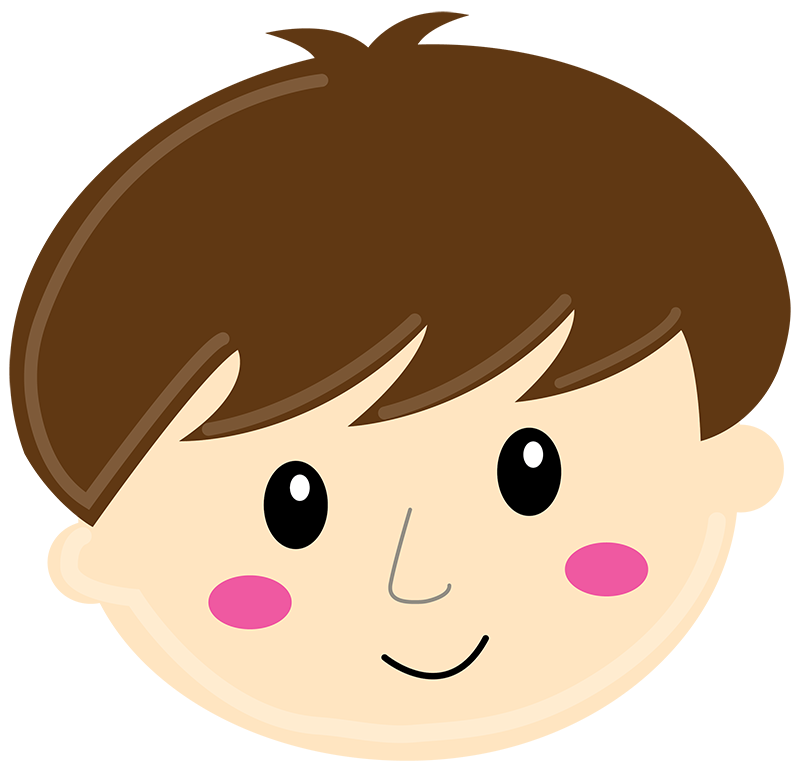
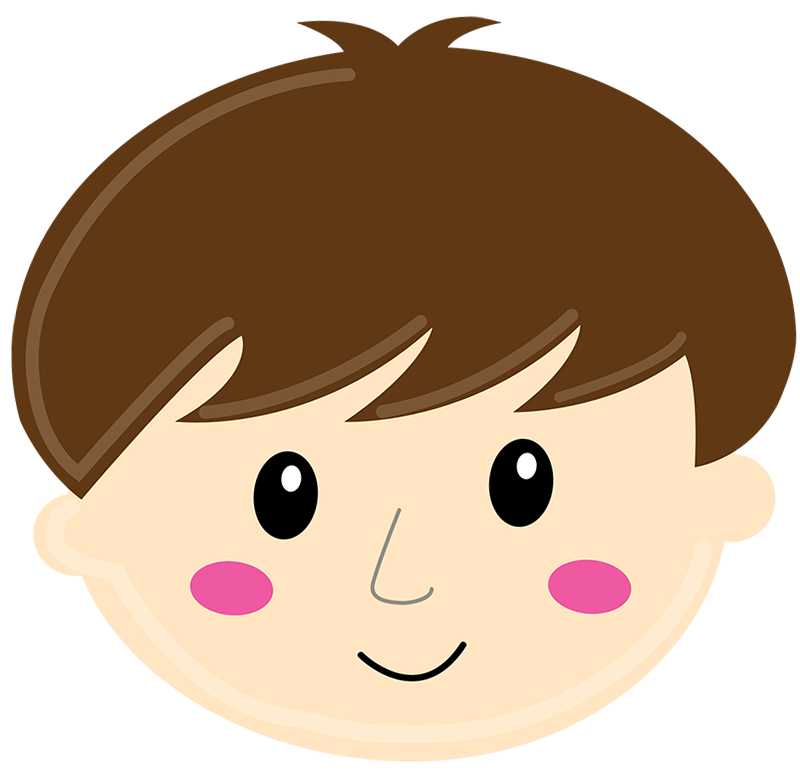
fixed assets

diff --git a/wear/style.css b/wear/style.css
@@ -29,11 +29,12 @@ main ul {
 
 
 #face {
-   
+   max-width: 480px;
+   margin: 25px 0 0 0;
 }
 
 #mask {
- 
+ max-width: 480px;
 }
 
 .slide-mask {
@@ -44,10 +45,10 @@ main ul {
 
 @keyframes slide-up {
     from {
-        transform: translateY(100%);
+        transform: translateY(90%);
     }
     to {
-        transform: translateY(-100%);
+        transform: translateY(-85%);
     }
 }
 
@@ -108,7 +109,6 @@ td {
     }
 
     .wear-image {
-        background: blue;
         position: relative;
         width: 40vw;
     }
@@ -116,13 +116,14 @@ td {
 
     #face {
         max-width: 500px;
+        margin: 0;
         position: absolute;
         top: 0;
     }
 
     #mask {
-        max-width: 500px;
+        max-width: 450px;
         position: absolute;
-        top: 0;
+        top: 55%;
     }
 }

diff --git a/wear/main.js b/wear/main.js
@@ -1,3 +1,4 @@
 $('#mask').click(function(){
     $(this).addClass("slide-mask");
   })
+
